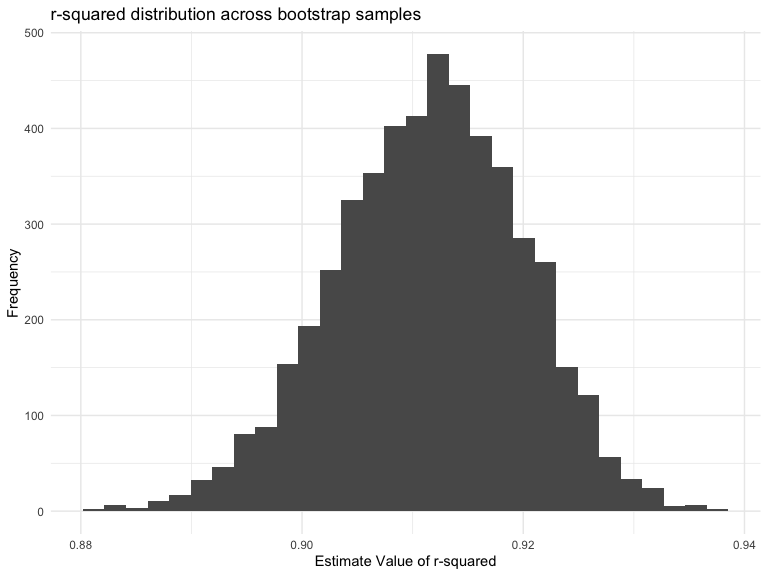
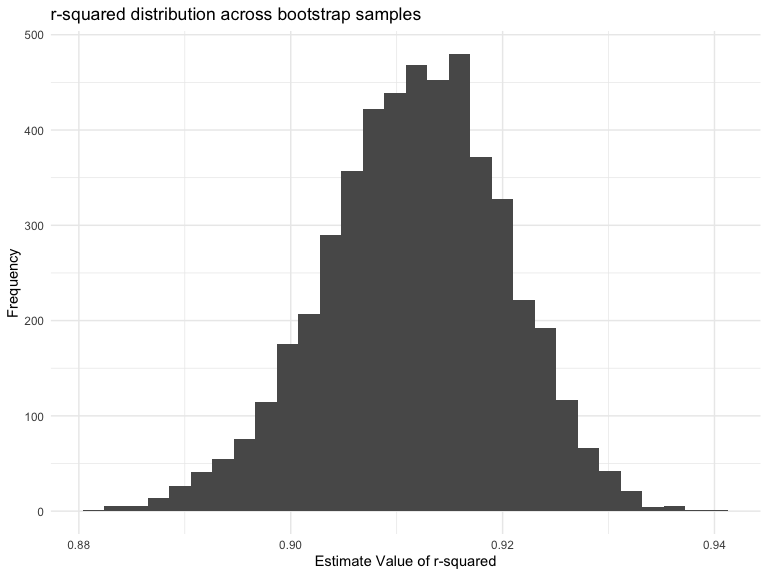
final knit

diff --git a/p8105_hw6_zi2125.md b/p8105_hw6_zi2125.md
@@ -427,11 +427,11 @@ beta_df =
               values_from = estimate) %>% 
   select(id, b0 = `(Intercept)`, b1 = tmin) %>% 
   mutate(
-    log_beta_mult = log(b0 * b1)
+    log_betas = log(b0 * b1)
   ) 
 ```
 
-Plot for r-squared
+Plots
 
 ``` r
 r2_plot = 
@@ -442,16 +442,28 @@ r2_plot =
     x = "Estimate Value of r-squared",
     y = "Frequency", 
     title = "r-squared distribution across bootstrap samples")
+r2_plot
 ```
 
-Plot for log of beta estimates
+    ## `stat_bin()` using `bins = 30`. Pick better value with `binwidth`.
+
+<img src="p8105_hw6_zi2125_files/figure-gfm/unnamed-chunk-17-1.png" width="90%" />
 
 ``` r
 beta_plot = beta_df %>% 
-  ggplot(aes(x = log_beta_mult)) +
+  ggplot(aes(x = log_betas)) +
   geom_histogram() +
   labs(x = "Estimated Value of log(β0 * β1)",
        y = "Frequency",
        title = "log(β0 * β1) distribution across bootstrap samples") +
   theme(plot.title = element_text(hjust = 0.5))
+beta_plot
 ```
+
+    ## `stat_bin()` using `bins = 30`. Pick better value with `binwidth`.
+
+<img src="p8105_hw6_zi2125_files/figure-gfm/unnamed-chunk-17-2.png" width="90%" />
+
+Both of the plots seem to follow a normal distribution.  
+The 95% confidence interval of R-squared is 0.89, 0.93 and the 95%
+confidence interval for log(beta 0 x log beta 1) is 1.97, 2.06.
